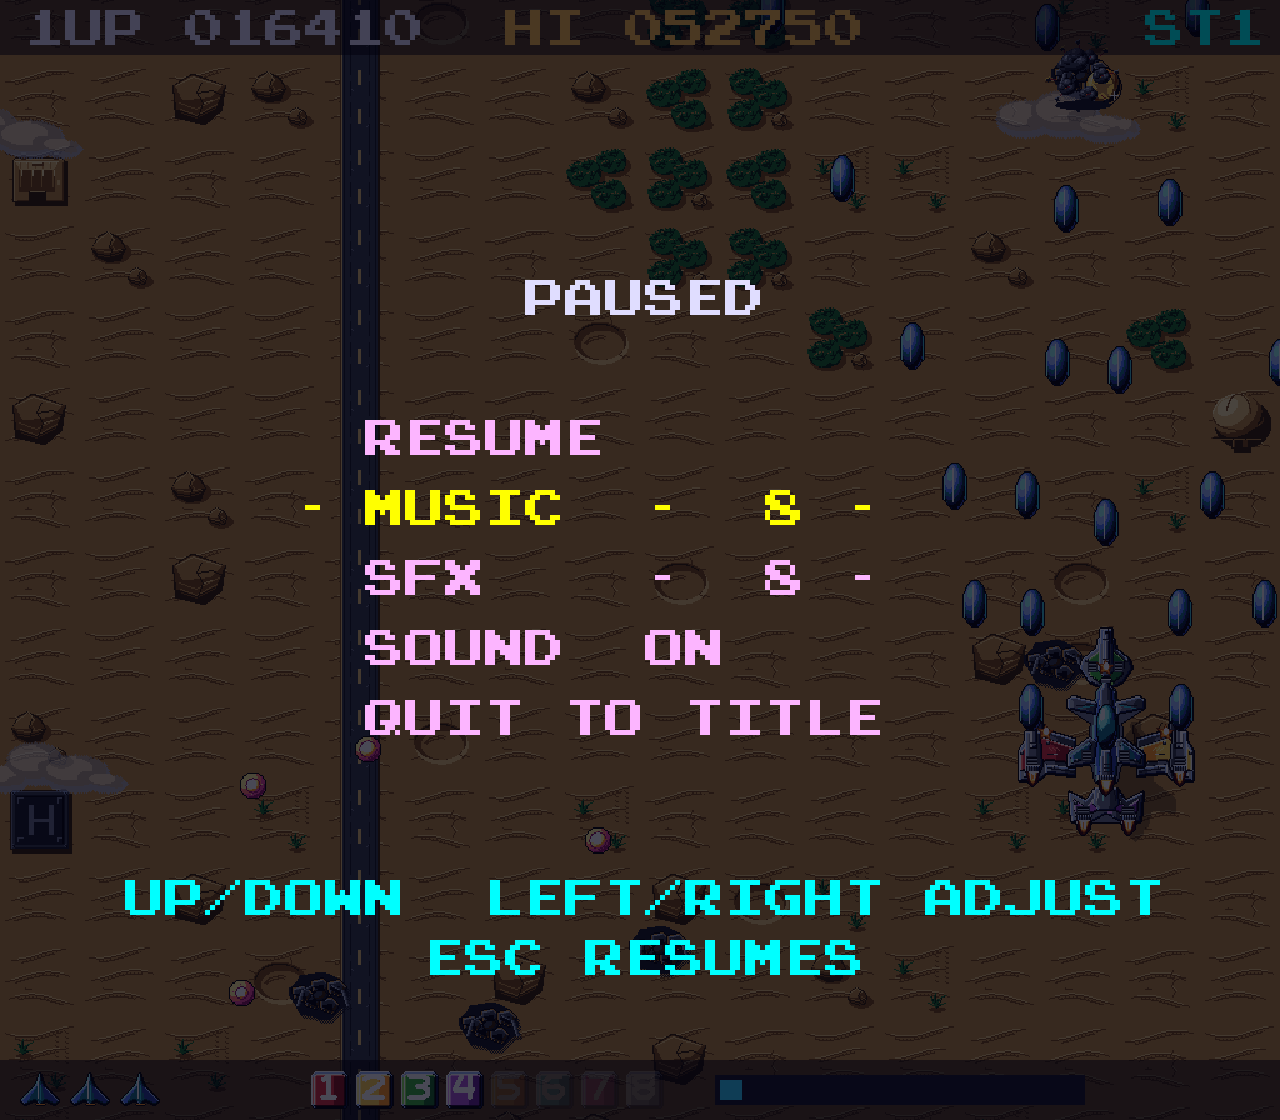
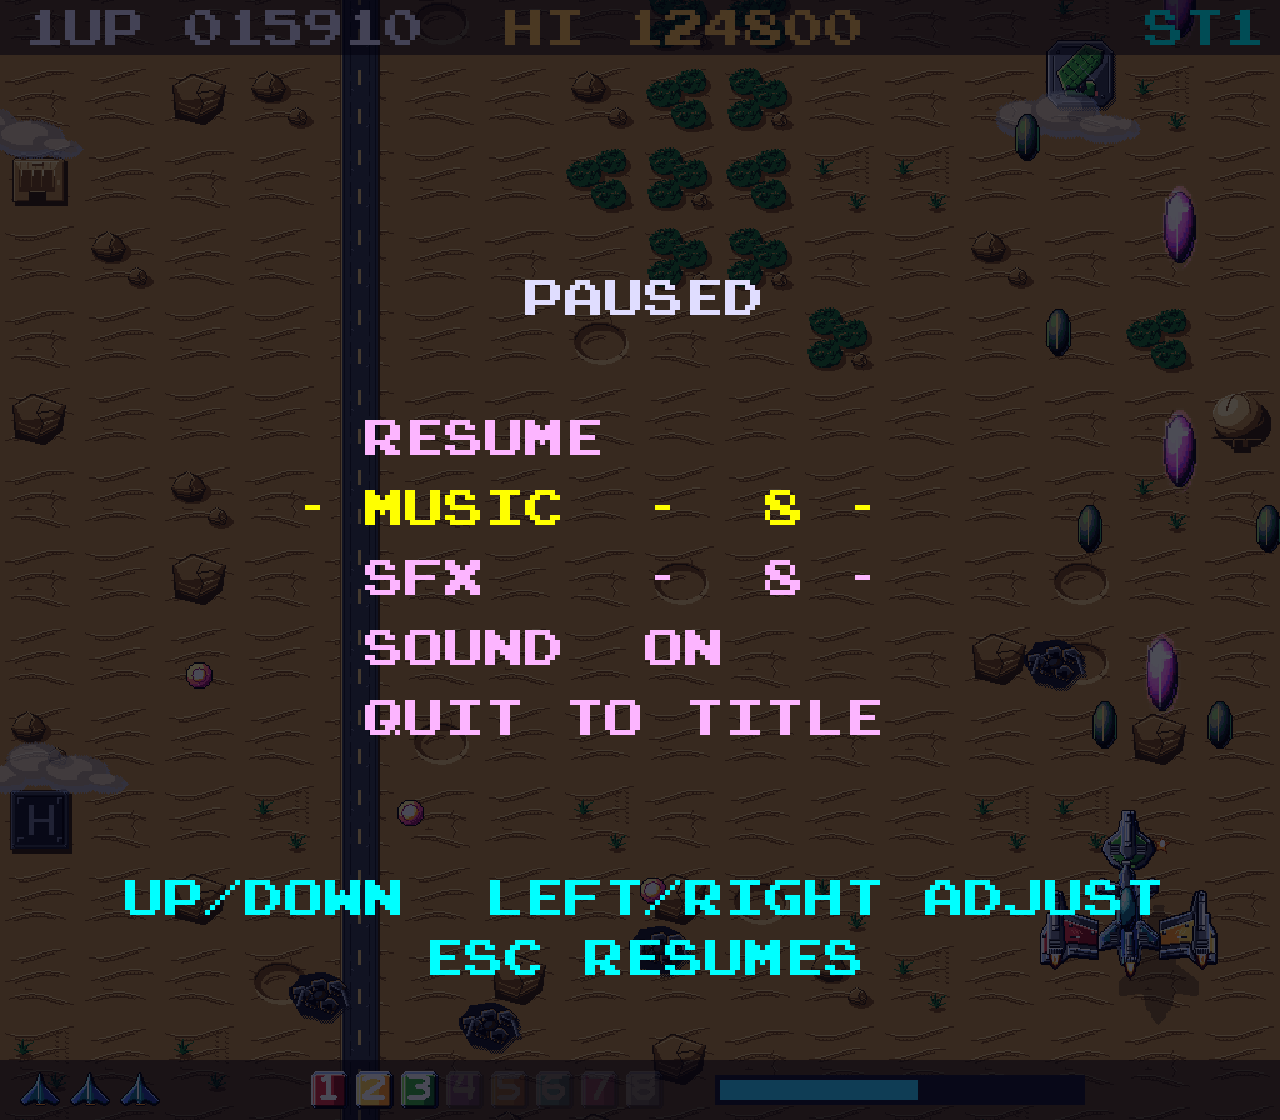
Window defaults to the playfield size; docked modules now upgrade the weapon through five tiers

diff --git a/src/game/player.c b/src/game/player.c
@@ -222,39 +222,47 @@ static void fire_volley(Game* g) {
     sim_sfx(g, SFX_SHOT_HEAVY);
     return;
   }
-  if (!detached && player_comp_docked(g, 2)) {
-    new_pbullet(g, PB_HEAVY, x, y - 20, 0, -6.2f, 2, false);
-    sim_fx(g, FX_MUZZLE, x, y - 22, false);
-  } else {
-    new_pbullet(g, PB_NORMAL, x, y - 13, 0, -5.4f, 1, false);
-    sim_fx(g, FX_MUZZLE, x, y - 15, false);
+  int n = 0;
+  if (!detached)
+    for (int i = 0; i < NUM_COMPONENTS; i++) n += player_comp_docked(g, i) ? 1 : 0;
+  int tier = (n + 1) / 2; /* 0..4: each pair of modules changes the weapon's shape and power, it does not just add shots */
+  float my = y - 13;
+  switch (tier) {
+    case 0: /* needle */
+      new_pbullet(g, PB_NORMAL, x, my, 0, -5.4f, 1, false);
+      break;
+    case 1: /* twin bolts */
+      new_pbullet(g, PB_BOLT, x - 4, my, 0, -5.6f, 2, false);
+      new_pbullet(g, PB_BOLT, x + 4, my, 0, -5.6f, 2, false);
+      break;
+    case 2: /* trident: a lance up the middle, bolts on either side */
+      new_pbullet(g, PB_LANCE, x, my - 4, 0, -6.4f, 3, false);
+      new_pbullet(g, PB_BOLT, x - 7, my + 2, -0.9f, -5.6f, 2, false);
+      new_pbullet(g, PB_BOLT, x + 7, my + 2, 0.9f, -5.6f, 2, false);
+      break;
+    case 3: /* piercing lances in a fan */
+      new_pbullet(g, PB_LANCE, x, my - 4, 0, -6.8f, 3, true);
+      new_pbullet(g, PB_LANCE, x - 6, my, -0.8f, -6.6f, 3, true);
+      new_pbullet(g, PB_LANCE, x + 6, my, 0.8f, -6.6f, 3, true);
+      new_pbullet(g, PB_BOLT, x - 12, my + 4, -1.8f, -5.6f, 2, false);
+      new_pbullet(g, PB_BOLT, x + 12, my + 4, 1.8f, -5.6f, 2, false);
+      break;
+    default: /* plasma: a piercing ball, flanked by lances and bolts */
+      new_pbullet(g, PB_PLASMA, x, my - 6, 0, -5.8f, 6, true);
+      new_pbullet(g, PB_LANCE, x - 9, my, -0.5f, -6.8f, 3, true);
+      new_pbullet(g, PB_LANCE, x + 9, my, 0.5f, -6.8f, 3, true);
+      new_pbullet(g, PB_BOLT, x - 15, my + 4, -1.8f, -5.6f, 2, false);
+      new_pbullet(g, PB_BOLT, x + 15, my + 4, 1.8f, -5.6f, 2, false);
+      break;
   }
-  if (!detached) {
-    if (player_comp_docked(g, 0)) {
-      new_pbullet(g, PB_WIDE, x - 12, y - 7, -0.55f, -5.2f, 1, false);
-      sim_fx(g, FX_MUZZLE, x - 12, y - 9, false);
-    }
-    if (player_comp_docked(g, 1)) {
-      new_pbullet(g, PB_WIDE, x + 12, y - 7, 0.55f, -5.2f, 1, false);
-      sim_fx(g, FX_MUZZLE, x + 12, y - 9, false);
-    }
-    if (player_comp_docked(g, 3)) {
-      new_pbullet(g, PB_WIDE, x - 5, y + 10, -2.0f, -4.8f, 1, false);
-      new_pbullet(g, PB_WIDE, x + 5, y + 10, 2.0f, -4.8f, 1, false);
-    }
-    if (player_comp_docked(g, 4)) {
-      new_pbullet(g, PB_WIDE, x - 22, y - 1, -1.35f, -5.0f, 1, false);
-      sim_fx(g, FX_MUZZLE, x - 22, y - 3, false);
-    }
-    if (player_comp_docked(g, 5)) {
-      new_pbullet(g, PB_WIDE, x + 22, y - 1, 1.35f, -5.0f, 1, false);
-      sim_fx(g, FX_MUZZLE, x + 22, y - 3, false);
-    }
-    if (player_comp_docked(g, 6)) new_pbullet(g, PB_NORMAL, x - 10, y - 17, 0, -6.4f, 1, false);
-    if (player_comp_docked(g, 7)) new_pbullet(g, PB_NORMAL, x + 10, y - 17, 0, -6.4f, 1, false);
+  if (n > 0 && n % 2 == 0) { /* the second module of a pair adds escort shots */
+    new_pbullet(g, PB_WIDE, x - 18, y - 4, -2.4f, -4.8f, 1, false);
+    new_pbullet(g, PB_WIDE, x + 18, y - 4, 2.4f, -4.8f, 1, false);
   }
+  sim_fx(g, FX_MUZZLE, x, y - 15, false);
+  if (tier >= 2) sim_sfx(g, SFX_SHOT_HEAVY);
+  else if (p->shot_alt % 2 == 0) sim_sfx(g, SFX_SHOT);
   p->shot_alt++;
-  if (p->shot_alt % 2 == 0) sim_sfx(g, (!detached && player_comp_docked(g, 2)) ? SFX_SHOT_HEAVY : SFX_SHOT);
 }
 
 static void fire_formation_components(Game* g) {

diff --git a/src/platform/main.c b/src/platform/main.c
@@ -96,8 +96,8 @@ int main(int argc, char** argv) {
   const custom_option_t custom[] = {
       {"seed", OPTION_INT, &opt.seed, "deterministic seed (default 1985)"},
       {"stage", OPTION_INT, &opt.stage, "start at stage 1..3 (debug)"},
-      {"width", OPTION_INT, &opt.width, "window width (default: the screen)"},
-      {"height", OPTION_INT, &opt.height, "window height (default: the screen)"},
+      {"width", OPTION_INT, &opt.width, "window width (default 768)"},
+      {"height", OPTION_INT, &opt.height, "window height (default 672)"},
       {"god", OPTION_FLAG, &opt.god, "invulnerable player (debug)"},
       {"debug", OPTION_FLAG, &opt.debug, "start with the debug overlay (F3 toggles)"},
       {"no-audio", OPTION_FLAG, &opt.no_audio, "silent"},
@@ -133,8 +133,9 @@ int main(int argc, char** argv) {
   }
   engine_set_log_level(LOG_LEVEL_WARN);
   graphics_config_t config = default_graphics_config("Eight Wings");
-  config.width = opt.width;
-  config.height = opt.height;
+  /* default window: the playfield at 3x (768x672), so it fills the window with no side bars */
+  config.width = opt.width > 0 ? opt.width : SCREEN_W * 3;
+  config.height = opt.height > 0 ? opt.height : SCREEN_H * 3;
   config.display = engine.display;
   config.display_mode = engine.display_mode;
   config.window_mode = engine.window_mode;

diff --git a/src/platform/scene.c b/src/platform/scene.c
@@ -279,6 +279,26 @@ static void draw_bullets(Renderer* r, const Game* g, long frame) {
         renderer_sprite(r, SPR_shot_f, (int)(frame / 3) % 2, b->pos.x, b->pos.y, &st);
         break;
       }
+      case PB_BOLT: { SpriteStyle st = S; st.g = 0.85f; st.b = 0.5f; renderer_sprite(r, SPR_shot_w, 0, b->pos.x, b->pos.y, &st); break; }
+      case PB_LANCE: {
+        SpriteStyle st = S;
+        st.rot = atan2f(sim_vx(&b->vel), -sim_vy(&b->vel));
+        st.scale = 1.25f;
+        renderer_sprite(r, SPR_shot_f, (int)(frame / 3) % 2, b->pos.x, b->pos.y, &st);
+        SpriteStyle gl = additive(0.5f);
+        gl.rot = st.rot; gl.scale = 1.5f;
+        renderer_sprite(r, SPR_shot_f, (int)(frame / 3) % 2, b->pos.x, b->pos.y, &gl);
+        break;
+      }
+      case PB_PLASMA: {
+        SpriteStyle st = S;
+        st.scale = 0.7f; st.r = 0.5f; st.g = 1.0f; st.b = 0.7f;
+        renderer_sprite(r, SPR_shot_ph, (int)(frame / 3) % 2, b->pos.x, b->pos.y, &st);
+        SpriteStyle gl = additive(0.45f + 0.15f * sinf((float)frame * 0.5f));
+        gl.scale = 0.95f; gl.r = 0.4f; gl.b = 0.6f;
+        renderer_sprite(r, SPR_shot_ph, (int)(frame / 3) % 2, b->pos.x, b->pos.y, &gl);
+        break;
+      }
       case PB_PHOENIX: renderer_sprite(r, SPR_shot_ph, (int)(frame / 3) % 2, b->pos.x, b->pos.y, &S); break;
     }
   }

diff --git a/tests/test_player.c b/tests/test_player.c
@@ -119,10 +119,10 @@ static void test_duplicate_pod_gives_bonus_not_second_component(void) {
 }
 
 static void test_weapons_grow_with_components(void) {
-  /* components -> bullets per volley and total damage per volley */
+  /* each pair of modules changes the weapon's shape (needle, twin bolts, trident, lances, plasma); the second of a pair adds escorts */
   static const int ns[] = {0, 1, 2, 3, 4, 5, 6, 7, 8};
-  static const int bullets[] = {1, 2, 3, 3, 5, 6, 7, 8, 9};
-  static const int damage[] = {1, 2, 3, 4, 6, 7, 8, 9, 10};
+  static const int bullets[] = {1, 2, 4, 3, 5, 5, 7, 5, 7};
+  static const int damage[] = {1, 4, 6, 7, 9, 13, 15, 16, 18};
   for (int k = 0; k < 9; k++) {
     Game* g = new_playing_game(1);
     give_components(g, ns[k]);

diff --git a/src/game/game.c b/src/game/game.c
@@ -249,6 +249,9 @@ static void bullet_half(PBulletKind k, float* hw, float* hh) {
     case PB_FORM: *hw = 3; *hh = 5; break;
     case PB_PHOENIX: *hw = 8; *hh = 11; break;
     case PB_HEAVY: *hw = 3; *hh = 6; break;
+    case PB_BOLT: *hw = 3; *hh = 6; break;
+    case PB_LANCE: *hw = 3; *hh = 9; break;
+    case PB_PLASMA: *hw = 7; *hh = 10; break;
     default: *hw = 2; *hh = 5; break;
   }
 }

diff --git a/src/game/types.h b/src/game/types.h
@@ -110,7 +110,7 @@ typedef struct {
   int age;
 } Pickup;
 
-typedef enum { PB_NORMAL, PB_WIDE, PB_FORM, PB_PHOENIX, PB_HEAVY } PBulletKind;
+typedef enum { PB_NORMAL, PB_WIDE, PB_FORM, PB_PHOENIX, PB_HEAVY, PB_BOLT, PB_LANCE, PB_PLASMA } PBulletKind;
 typedef struct {
   PBulletKind kind;
   point_t pos;

diff --git a/README.md b/README.md
@@ -44,7 +44,9 @@ Build system note: like `super-fabio-bro`, the engine is built by its own makefi
 development machine and was not used.
 
 ### Options
-The window opens as large as fits your desktop (`--scale N` to override, `F` for fullscreen). `--seed N` (deterministic run) `--stage 1..3` `--god` `--debug` `--scale N` `--fullscreen` `--no-audio` `--assets DIR` `--autoshots DIR` `--help`
+The window opens at 768x672, exactly the playfield at 3x (`--width=N --height=N` to override, `F` or F11 for full screen). Options: `--seed=N` (deterministic run) `--stage=1..3` `--god` `--debug` `--no-audio` `--assets=DIR` `--autoshots=DIR` `--help`.
+
+**Weapon tiers.** Every pair of docked modules changes the weapon, not just the shot count: needle (0), twin bolts (1-2), trident with a central lance (3-4), piercing lance fan (5-6), and a piercing plasma ball flanked by lances (7-8). The second module of each pair adds escort shots.
 
 ## Controls
 | Action | Keys |
